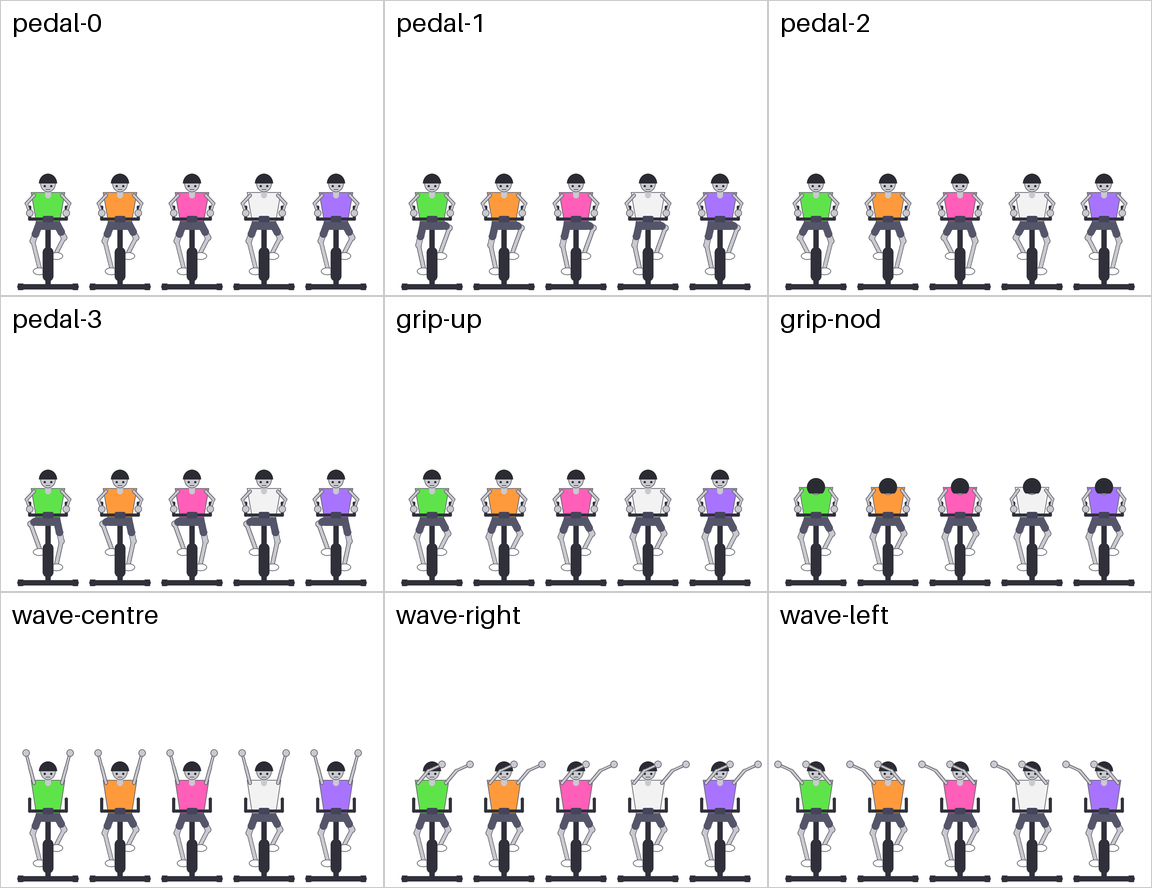
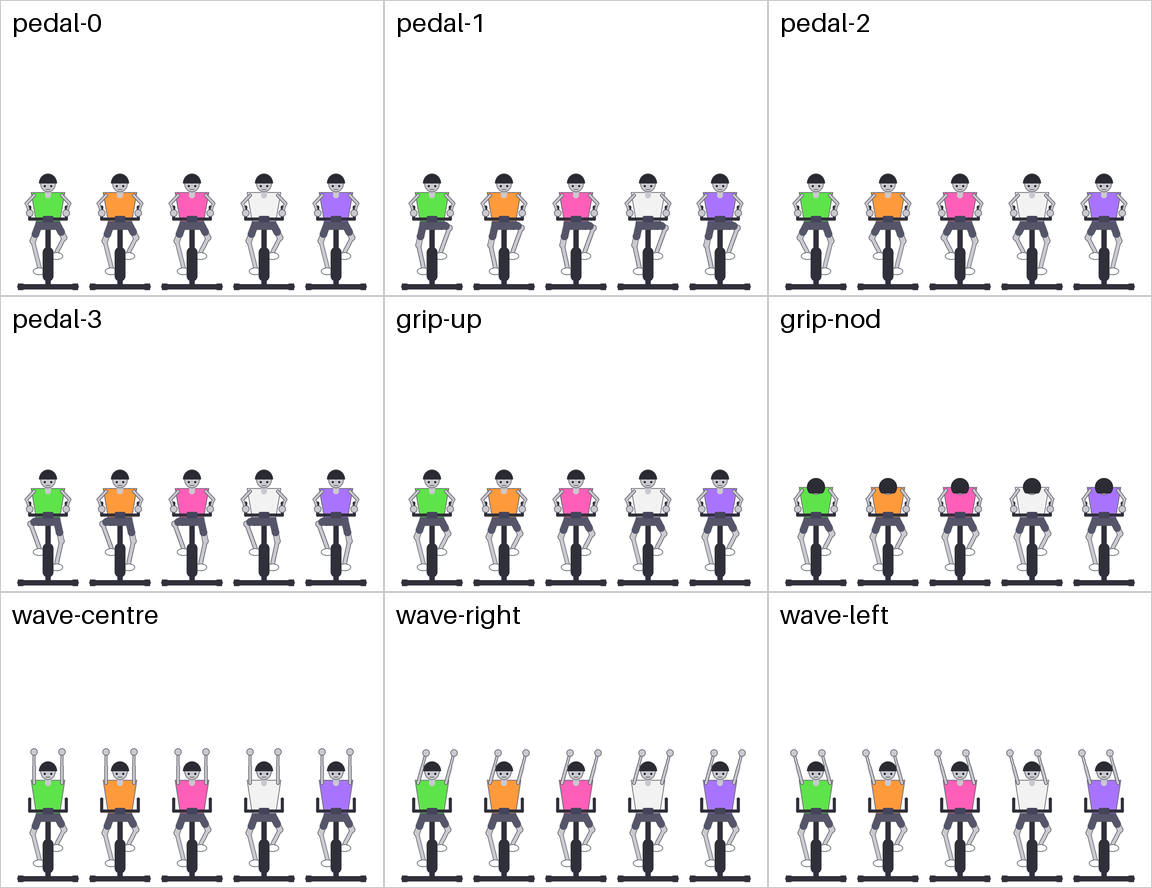
fix: wave

Changed region(s): [[0.3438, 0.8514, 0.9688, 0.8818], [0.0, 0.8209, 0.3125, 0.8818]]

diff --git a/tests/spinBikes.test.js b/tests/spinBikes.test.js
@@ -2,7 +2,7 @@ import { test } from 'node:test';
 import assert from 'node:assert/strict';
 import { crankAngle, legIK, frontLeg, armPose, armLean, gripDip, headNod, gripArm, laggedBeat, shade, bikeRowStartX } from '../src/spinBikes.js';
 import {
-  GAME_WIDTH, ENEMY_CRUISE_SPEED, SCENERY_PARALLAX, BIKE_ARM_HIT_MS, BIKE_ARM_RELAX, BIKE_DIP_HIT_MS, BIKE_GRIP_HUNCH_PX,
+  GAME_WIDTH, ENEMY_CRUISE_SPEED, SCENERY_PARALLAX, BIKE_ARM_HIT_FRAC, BIKE_ARM_HOLD_FRAC, BIKE_WAVE_HITS_PER_BEAT, BIKE_HAIR_LAG_MS, BIKE_ARM_RELAX, BIKE_DIP_HIT_MS, BIKE_GRIP_HUNCH_PX,
   BIKE_NOD_DROP_PX, BIKE_NOD_HAIR_REST, BIKE_NOD_HAIR_FULL, BIKE_NOD_SQUASH,
   BIKE_FLOOR_Y, BIKE_SHOULDER_RISE, BIKE_SHOULDER_HALF, BIKE_HIP_HALF, BIKE_HIP_RISE, BIKE_SPLAY,
   BIKE_THIGH_LEN, BIKE_SHIN_LEN, BIKE_UPPER_ARM_LEN, BIKE_FOREARM_LEN, BIKE_PEDAL_RADIUS, BIKE_BAR_RISE, BIKE_BAR_HALF, BIKE_GRIP_LEN, BIKE_GRIP_FORESHORTEN,
@@ -59,6 +59,7 @@ test('bikeRowStartX is GAME_WIDTH at the section start and decreases with time',
 });
 
 const BEAT = 398;
+const BIKE_ARM_HIT_MS = BIKE_ARM_HIT_FRAC * BEAT; // hit timing at one hit per beat
 const sh = { x: 100, y: 100 };
 
 test('arms reach the hit pose by BIKE_ARM_HIT_MS and hold it', () => {
@@ -71,7 +72,37 @@ test('arms reach the hit pose by BIKE_ARM_HIT_MS and hold it', () => {
   const a = armPose(sh, 0, BIKE_ARM_HIT_MS, BEAT, 1, BIKE_UPPER_ARM_LEN, BIKE_FOREARM_LEN);
   const b = armPose(sh, 0, BIKE_ARM_HIT_MS + 80, BEAT, 1, BIKE_UPPER_ARM_LEN, BIKE_FOREARM_LEN);
   near(a.hand.x, b.hand.x);
-  assert.ok(a.hand.x > sh.x + 15);
+  assert.ok(a.hand.x > sh.x + 5);
+});
+
+test('arm timings scale with the wave period and match the old 100/120 ms at one hit per beat', () => {
+  const TRACK_BEAT_MS = 60000 / 150.55;
+  assert.ok(Math.abs(BIKE_ARM_HIT_FRAC * TRACK_BEAT_MS - 100) < 1);
+  assert.ok(Math.abs(BIKE_ARM_HOLD_FRAC * TRACK_BEAT_MS - 120) < 1);
+  for (const P of [TRACK_BEAT_MS, TRACK_BEAT_MS / BIKE_WAVE_HITS_PER_BEAT]) {
+    near(armLean(0, BIKE_ARM_HIT_FRAC * P, P), 1);
+    assert.ok(armLean(0, BIKE_ARM_HIT_FRAC * P * 0.9, P) < 1);
+    near(armLean(0, (BIKE_ARM_HIT_FRAC + BIKE_ARM_HOLD_FRAC) * P - 1, P), 1); // still held
+    assert.ok(armLean(0, (BIKE_ARM_HIT_FRAC + BIKE_ARM_HOLD_FRAC) * P + 0.1 * P, P) < 1); // relaxing
+  }
+});
+
+test('half-beat wave period: relax phase exists and the lean is continuous across hits, alternating sides', () => {
+  const P = 60000 / 150.55 / 2;
+  assert.ok(BIKE_ARM_HIT_FRAC + BIKE_ARM_HOLD_FRAC < 1);
+  assert.ok(BIKE_HAIR_LAG_MS < P);
+  for (let i = -2; i < 4; i++) {
+    near(armLean(i, P, P), BIKE_ARM_RELAX * Math.sign(armLean(i, P / 2, P)));
+    near(armLean(i, P - 1e-6, P), armLean(i + 1, 0, P), 1e-6); // end of this hit == start of next (which then snaps the other way)
+    assert.equal(Math.sign(armLean(i, P / 2, P)), -Math.sign(armLean(i + 1, P / 2, P)));
+    let prev = armLean(i, 0, P);
+    for (let t = 1; t <= P; t++) {
+      const lean = armLean(i, t, P);
+      assert.ok(Math.abs(lean) <= 1 + 1e-9);
+      if (t > BIKE_ARM_HIT_FRAC * P) assert.ok(Math.abs(lean - prev) < 0.15, `${i}@${t}`);
+      prev = lean;
+    }
+  }
 });
 
 test('odd beats mirror even beats', () => {
@@ -184,6 +215,43 @@ test('raised hands stay clear of the HUD strip (y >= 50) at every point of the b
     }
   }
   assert.ok(top >= 50, `highest hand at y=${top}`);
+});
+
+test('both arms always have the same angle (parallel)', () => {
+  const angle = (p) => Math.atan2(p.hand.x - sh.x, sh.y - p.hand.y);
+  for (const beat of [0, 1]) {
+    for (let t = 0; t <= 2 * BEAT; t += 7) {
+      const l = armPose(sh, beat, t, BEAT, -1, BIKE_UPPER_ARM_LEN, BIKE_FOREARM_LEN);
+      const r = armPose(sh, beat, t, BEAT, 1, BIKE_UPPER_ARM_LEN, BIKE_FOREARM_LEN);
+      near(angle(l), angle(r), 1e-9);
+    }
+  }
+});
+
+test('wave-mode arms are straight and the far arm clears the head at full lean', () => {
+  const shY = BIKE_FLOOR_Y - BIKE_SHOULDER_RISE;
+  for (const beat of [0, 1]) {
+    for (const t of [0, 30, BIKE_ARM_HIT_MS, 200, 300, BEAT]) {
+      for (const side of [-1, 1]) {
+        const x = side * BIKE_SHOULDER_HALF;
+        const p = armPose({ x, y: shY }, beat, t, BEAT, side, BIKE_UPPER_ARM_LEN, BIKE_FOREARM_LEN);
+        // elbow on the shoulder -> hand line: cross product ~ 0
+        const cross = (p.elbow.x - x) * (p.hand.y - shY) - (p.elbow.y - shY) * (p.hand.x - x);
+        near(cross, 0, 1e-6);
+      }
+    }
+  }
+  // head ellipse as drawn in SpinBikes.js (HEAD_RX/RY/RISE duplicated here), grown by a 2 px margin for the arm's thickness
+  const rx = 7.2 + 2, ry = 8 + 2, cy = BIKE_FLOOR_Y - 103;
+  for (const beat of [0, 1]) {
+    const far = beat % 2 === 0 ? -1 : 1; // leaning toward screen-right: the left arm is the far one
+    const x0 = far * BIKE_SHOULDER_HALF;
+    const p = armPose({ x: x0, y: shY }, beat, BIKE_ARM_HIT_MS, BEAT, far, BIKE_UPPER_ARM_LEN, BIKE_FOREARM_LEN);
+    for (let s = 0; s <= 1; s += 0.01) {
+      const x = x0 + (p.hand.x - x0) * s, y = shY + (p.hand.y - shY) * s;
+      assert.ok((x / rx) ** 2 + ((y - cy) / ry) ** 2 > 1, `beat ${beat} s=${s}`);
+    }
+  }
 });
 
 test('the rider row spans roughly 600-700 px', () => {

diff --git a/src/spinBikes.js b/src/spinBikes.js
@@ -1,8 +1,8 @@
 import {
   GAME_WIDTH, ENEMY_CRUISE_SPEED, SCENERY_PARALLAX,
   BIKE_COUNT, BIKE_SPACING, BIKE_WIDTH,
-  BIKE_ARM_SPREAD_DEG, BIKE_ARM_HIT_UPPER_DEG, BIKE_ARM_HIT_FORE_DEG,
-  BIKE_ARM_HIT_MS, BIKE_ARM_HOLD_MS, BIKE_ARM_RELAX, BIKE_DIP_HIT_MS,
+  BIKE_ARM_HIT_UPPER_DEG,
+  BIKE_ARM_HIT_FRAC, BIKE_ARM_HOLD_FRAC, BIKE_ARM_RELAX, BIKE_DIP_HIT_MS,
   BIKE_NOD_DROP_PX, BIKE_NOD_HAIR_REST, BIKE_NOD_HAIR_FULL, BIKE_NOD_EYES_HIDE, BIKE_NOD_SQUASH,
 } from './config/gameConfig.js';
 
@@ -46,30 +46,32 @@ export function frontLeg(hip, crank, radius, angle, side, thigh, shin, splay) {
   };
 }
 
-// Lean of the arm "hit" at msSinceBeat into beat `beatIndex`, in -1..1 (+1 = fully toward screen-right).
-// Even beats hit toward screen-right, odd toward screen-left. The lean snaps from where the previous beat ended
-// (-BIKE_ARM_RELAX of this side) to the full hit within BIKE_ARM_HIT_MS (ease-out), holds for
-// BIKE_ARM_HOLD_MS, then relaxes to BIKE_ARM_RELAX of the hit by the next beat, so it is continuous
-// across beats except for the intended snap.
-export function armLean(beatIndex, msSinceBeat, beatMs) {
-  const dir = Math.abs(beatIndex % 2) === 0 ? 1 : -1;
-  const t = Math.min(Math.max(msSinceBeat, 0), beatMs);
-  const hit = 1 - Math.pow(1 - Math.min(t / BIKE_ARM_HIT_MS, 1), 3);
-  if (t < BIKE_ARM_HIT_MS) return dir * (-BIKE_ARM_RELAX + (1 + BIKE_ARM_RELAX) * hit);
-  const relaxMs = Math.max(beatMs - BIKE_ARM_HIT_MS - BIKE_ARM_HOLD_MS, 1);
-  const u = Math.min(Math.max((t - BIKE_ARM_HIT_MS - BIKE_ARM_HOLD_MS) / relaxMs, 0), 1);
+// Lean of the arm "hit" at msSinceHit into hit `hitIndex` (a hit lasts periodMs: a beat or a fraction of one,
+// see BIKE_WAVE_HITS_PER_BEAT), in -1..1 (+1 = fully toward screen-right). Even hits go toward screen-right,
+// odd toward screen-left. The lean snaps from where the previous hit ended (-BIKE_ARM_RELAX of this side) to
+// the full hit within BIKE_ARM_HIT_FRAC of the period (ease-out), holds for BIKE_ARM_HOLD_FRAC, then relaxes
+// to BIKE_ARM_RELAX of the hit by the next hit, so it is continuous across hits except for the intended snap.
+export function armLean(hitIndex, msSinceHit, periodMs) {
+  const dir = Math.abs(hitIndex % 2) === 0 ? 1 : -1;
+  const t = Math.min(Math.max(msSinceHit, 0), periodMs);
+  const hitMs = BIKE_ARM_HIT_FRAC * periodMs;
+  const holdMs = BIKE_ARM_HOLD_FRAC * periodMs;
+  const hit = 1 - Math.pow(1 - Math.min(t / hitMs, 1), 3);
+  if (t < hitMs) return dir * (-BIKE_ARM_RELAX + (1 + BIKE_ARM_RELAX) * hit);
+  const relaxMs = Math.max(periodMs - hitMs - holdMs, 1);
+  const u = Math.min(Math.max((t - hitMs - holdMs) / relaxMs, 0), 1);
   return dir * (1 - (1 - BIKE_ARM_RELAX) * u * u * (3 - 2 * u));
 }
 
-// One raised arm from the shoulder at the beat-hit pose. `side` is -1 (screen-left arm) or 1 (screen-right arm);
-// every rider uses the same beat so the row hits in unison. Angles are from straight up, positive
-// toward +x; the forearm whips further than the upper arm along the lean.
-export function armPose(shoulder, beatIndex, msSinceBeat, beatMs, side, upperLen, foreLen) {
-  const lean = armLean(beatIndex, msSinceBeat, beatMs);
-  const upper = side * rad(BIKE_ARM_SPREAD_DEG) * (1 - Math.abs(lean)) * 0.5 + lean * rad(BIKE_ARM_HIT_UPPER_DEG);
-  const fore = upper + lean * rad(BIKE_ARM_HIT_FORE_DEG);
+// One raised arm from the shoulder at the hit pose. `side` is -1 (screen-left arm) or 1 (screen-right arm);
+// every rider uses the same hit so the row waves in unison. Angles are from straight up, positive
+// toward +x. The arm is always straight (forearm = upper arm angle) and both arms share one angle (the lean),
+// so they stay parallel: straight up between hits, swinging together toward the hit's side.
+export function armPose(shoulder, hitIndex, msSinceHit, periodMs, side, upperLen, foreLen) {
+  const lean = armLean(hitIndex, msSinceHit, periodMs);
+  const upper = lean * rad(BIKE_ARM_HIT_UPPER_DEG);
   const elbow = { x: shoulder.x + Math.sin(upper) * upperLen, y: shoulder.y - Math.cos(upper) * upperLen };
-  return { elbow, hand: { x: elbow.x + Math.sin(fore) * foreLen, y: elbow.y - Math.cos(fore) * foreLen } };
+  return { elbow, hand: { x: elbow.x + Math.sin(upper) * foreLen, y: elbow.y - Math.cos(upper) * foreLen } };
 }
 
 // Head-bang dip in 0..1 (1 = fully down) at msSinceBeat into a beat: fully down on the beat and for

diff --git a/src/objects/SpinBikes.js b/src/objects/SpinBikes.js
@@ -5,7 +5,7 @@ import {
   GAME_WIDTH, SCENERY_PARALLAX, BIKE_COUNT, BIKE_SPACING, BIKE_WIDTH, BIKE_FLOOR_Y, BIKE_DEPTH, BIKE_PEDAL_BEATS,
   BIKE_HIP_HALF, BIKE_SHOULDER_HALF, BIKE_PEDAL_RADIUS, BIKE_BAR_RISE, BIKE_BAR_HALF, BIKE_GRIP_LEN, BIKE_GRIP_FORESHORTEN, BIKE_HIP_RISE, BIKE_SHOULDER_RISE, BIKE_SPLAY,
   BIKE_THIGH_LEN, BIKE_SHIN_LEN, BIKE_UPPER_ARM_LEN, BIKE_FOREARM_LEN,
-  BIKE_GRIP_HUNCH_PX, BIKE_NOD_HAIR_REST, BIKE_NOD_HAIR_FULL, BIKE_SHOULDER_BOB_PX, BIKE_HAIR_LAG_MS, BIKE_HAIR_SWING_PX,
+  BIKE_GRIP_HUNCH_PX, BIKE_NOD_HAIR_REST, BIKE_NOD_HAIR_FULL, BIKE_SHOULDER_BOB_PX, BIKE_HAIR_LAG_MS, BIKE_HAIR_SWING_PX, BIKE_WAVE_HITS_PER_BEAT,
   BIKE_FRAME_WIDTH, BIKE_RIM_ALPHA, BIKE_FRAME_COLOR, BIKE_SHOE_COLOR, BIKE_OUTLINE_COLOR, BIKE_RENDER_SCALE,
   BIKE_COLORS, BIKE_SKINS, BIKE_TOPS, BIKE_SHORTS, BIKE_HAIR,
 } from '../config/gameConfig.js';
@@ -156,18 +156,25 @@ export class SpinBikes {
     const beatIndex = conductor.gridIndex(1);
     const sinceBeat = conductor.phaseMs(1);
     this.grip = section.bikes === 'grip';
+    // wave mode hits BIKE_WAVE_HITS_PER_BEAT times a beat; grip mode (nod) stays per beat
+    const waveIndex = conductor.gridIndex(BIKE_WAVE_HITS_PER_BEAT);
+    const sinceHit = conductor.phaseMs(1 / BIKE_WAVE_HITS_PER_BEAT);
+    const waveMs = beatMs / BIKE_WAVE_HITS_PER_BEAT;
     this.dip = this.grip ? gripDip(sinceBeat, beatMs) : 0;
     // hair replays the head / arm motion late: relative to the head it trails the nod, and swings with the lagged lean
-    const lag = laggedBeat(beatIndex, sinceBeat, beatMs, BIKE_HAIR_LAG_MS);
-    this.hair = this.grip
-      ? pt(0, (gripDip(lag.msSinceBeat, beatMs) - this.dip) * BIKE_HAIR_SWING_PX)
-      : pt(armLean(lag.beatIndex, lag.msSinceBeat, beatMs) * BIKE_HAIR_SWING_PX, 0);
+    if (this.grip) {
+      const lag = laggedBeat(beatIndex, sinceBeat, beatMs, BIKE_HAIR_LAG_MS);
+      this.hair = pt(0, (gripDip(lag.msSinceBeat, beatMs) - this.dip) * BIKE_HAIR_SWING_PX);
+    } else {
+      const lag = laggedBeat(waveIndex, sinceHit, waveMs, BIKE_HAIR_LAG_MS); // clamps if the lag exceeds the period
+      this.hair = pt(armLean(lag.beatIndex, lag.msSinceBeat, waveMs) * BIKE_HAIR_SWING_PX, 0);
+    }
 
     const g = this.gfx.clear();
     for (let i = 0; i < BIKE_COUNT; i++) {
       const cx = this.left + BIKE_WIDTH / 2 + i * BIKE_SPACING;
       if (cx + BIKE_WIDTH < 0 || cx - BIKE_WIDTH > GAME_WIDTH) continue;
-      this.drawRider(g, this.riders[i], cx, crank, beatIndex, sinceBeat, beatMs);
+      this.drawRider(g, this.riders[i], cx, crank, beatIndex, sinceBeat, beatMs, waveIndex, sinceHit, waveMs);
     }
     this.rt.clear().draw(g).setVisible(true);
   }
@@ -279,7 +286,7 @@ export class SpinBikes {
     g.lineStyle(1, BIKE_OUTLINE_COLOR, 0.8).beginPath().moveTo(cx, hipY + 3).lineTo(cx, hipY + 9).strokePath();
   }
 
-  drawRider(g, r, cx, crankBase, beatIndex, sinceBeat, beatMs) {
+  drawRider(g, r, cx, crankBase, beatIndex, sinceBeat, beatMs, waveIndex, sinceHit, waveMs) {
     const hipY = BIKE_FLOOR_Y - BIKE_HIP_RISE;
     const grip = this.grip;
     const shoulderY = BIKE_FLOOR_Y - BIKE_SHOULDER_RISE + (grip ? BIKE_GRIP_HUNCH_PX - BIKE_SHOULDER_BOB_PX * this.dip : 0);
@@ -303,9 +310,9 @@ export class SpinBikes {
 
     const barY = BIKE_FLOOR_Y - BIKE_BAR_RISE - BIKE_GRIP_LEN / 2; // grip: middle of the upturned bar end
     const armL = grip ? gripArm(shL, { x: cx - BIKE_BAR_HALF, y: barY }, -1, BIKE_UPPER_ARM_LEN * BIKE_GRIP_FORESHORTEN, BIKE_FOREARM_LEN * BIKE_GRIP_FORESHORTEN)
-      : armPose(shL, beatIndex, sinceBeat, beatMs, -1, BIKE_UPPER_ARM_LEN, BIKE_FOREARM_LEN);
+      : armPose(shL, waveIndex, sinceHit, waveMs, -1, BIKE_UPPER_ARM_LEN, BIKE_FOREARM_LEN);
     const armR = grip ? gripArm(shR, { x: cx + BIKE_BAR_HALF, y: barY }, 1, BIKE_UPPER_ARM_LEN * BIKE_GRIP_FORESHORTEN, BIKE_FOREARM_LEN * BIKE_GRIP_FORESHORTEN)
-      : armPose(shR, beatIndex, sinceBeat, beatMs, 1, BIKE_UPPER_ARM_LEN, BIKE_FOREARM_LEN);
+      : armPose(shR, waveIndex, sinceHit, waveMs, 1, BIKE_UPPER_ARM_LEN, BIKE_FOREARM_LEN);
     this.arm(g, shL, armL, { ...r, band: false }, grip);
     this.arm(g, shR, armR, r, grip);
   }

diff --git a/src/config/gameConfig.js b/src/config/gameConfig.js
@@ -274,12 +274,11 @@ export const BIKE_GRIP_FORESHORTEN = 0.68;   // 'grip' mode: arms reach toward t
 export const BIKE_GRIP_LEN = 11;             // px, how far each grip end stands up from the bar (the fist wraps its middle)
 export const BIKE_UPPER_ARM_LEN = 15;        // px
 export const BIKE_FOREARM_LEN = 14;          // px (raised hands stay >= 50 px from the top: tests/spinBikes.test.js)
-export const BIKE_ARM_SPREAD_DEG = 30;       // relaxed pose: arms raised in a V, each this far outward from vertical
-export const BIKE_ARM_HIT_UPPER_DEG = 40;    // on each beat both upper arms snap this far toward the beat's side (even beats screen-right, odd screen-left)
-export const BIKE_ARM_HIT_FORE_DEG = 25;     // forearms whip this much further than the upper arm
-export const BIKE_ARM_HIT_MS = 100;          // ms after the beat to reach the hit pose (ease-out)
-export const BIKE_ARM_HOLD_MS = 120;         // ms the hit pose is held before relaxing
-export const BIKE_ARM_RELAX = 0.3;           // fraction of the hit lean still left at the end of the beat (the next hit starts from the opposite of it)
+export const BIKE_ARM_HIT_UPPER_DEG = 30;    // on each beat both parallel arms swing this many deg toward the beat's side (even beats screen-right, odd screen-left), straight up at rest; the far arm clears the head up to 16 deg (tests/spinBikes.test.js), 15 leaves margin
+export const BIKE_WAVE_HITS_PER_BEAT = 1;    // arm-wave hits per beat in the non-grip 'bikes' mode (1 = on every beat); the lean alternates side on every hit
+export const BIKE_ARM_HIT_FRAC = 0.25;       // fraction of the wave period (1 / BIKE_WAVE_HITS_PER_BEAT beat) after a hit to reach the hit pose (ease-out); 100 ms at 1 hit per beat, 150.55 BPM
+export const BIKE_ARM_HOLD_FRAC = 0.3;       // fraction of the wave period the hit pose is held before relaxing (~120 ms at 1 hit per beat)
+export const BIKE_ARM_RELAX = 0.3;           // fraction of the hit lean still left at the end of the wave period (the next hit starts from the opposite of it)
 export const BIKE_DIP_HIT_MS = 70;           // ms the nod stays fully down after the beat, then it eases back up by mid-beat
 export const BIKE_NOD_DROP_PX = 7;           // 'grip' mode: head sinks this far at a full nod (about its radius)
 export const BIKE_NOD_HAIR_REST = 0.5;       // fraction of the head's height covered by hair/cap from the top when upright

diff --git a/CLAUDE.md b/CLAUDE.md
@@ -31,7 +31,7 @@ Tests use `node --test` and live in `tests/`, so anything under test must stay i
 - `Player` — `new Player(scene, x, { autoRun })`: `autoRun` pins speed at `ENEMY_CRUISE_SPEED`, ignores taps/deceleration and keeps the beat-locked run cycle (`tapIdleMs: 0`); `GameScene` sets it for `?debug` or Easy difficulty. Alternating left/right key taps accelerate the player; up/down arrows snap between 3 rows. WASD aliases the arrows everywhere (gameplay and menu) via `addDirectionKeys`/`anyJustDown`/`onDirectionKey` in `src/input.js`. Input is split into shared methods — `tap(side)` (alternating accel) and `moveRow(dir)` (clamped row snap) — so keyboard (`update()`) and touch share one code path. Touch controls (`Player.attachTouch(scene)`, called by `GameScene`): tapping the left/right half of the screen calls `tap()` on `pointerdown`; a vertical swipe past `SWIPE_THRESHOLD` (`gameConfig.js`) calls `moveRow()` mid-gesture, one row change per pointer until release — tracked per-pointer so two-thumb tapping and a swipe don't interfere. When `PLAYER_FRAME_COUNT` (`gameConfig.js`) is non-zero, the green rectangle is replaced with run-cycle frames via the shared `RunCycle` helper (`src/objects/RunCycle.js`, frames from `src/config/runFrames.js`, prepped by `tools/prep-run-frames.py`, `--dummy` generates placeholder frames before real art exists); each frame once the beat clock runs `GameScene` calls `syncFrame(conductor.gridIndex(PLAYER_RUN_STEPS_PER_BEAT × section.speedMult))` (6 steps per game beat, so the 3-frame cycle lands a foot contact every half game beat; the enemy has its own `ENEMY_RUN_STEPS_PER_BEAT`, 8th notes), which shows frame `walkIndex % frameCount` (never double-steps; the beat grid fixes the phase, so `?t=` seeks land on the right phase) — while a free-running timer in `RunCycle.update()` at the same per-character rate (`BEAT_MS / stepsPerBeat`) only animates the walk before the first sync, so the player walks from the first frame even before the first downbeat / audio start, and is silenced once beat-locked — while the `pulse()` beat squash still waits for `BEAT_SYNC_START_MS`; falls back to the plain rectangle when the count is 0. **That beat-locked cycle is the player's idle fallback**: with `PLAYER_TAP_RUN_IDLE_MS` non-zero (the default) the player's run is tap-driven while the user taps — each accelerating tap in `tap()` calls `runCycle.step()`, advancing exactly one frame and holding it (`syncFrame()` and the timer are ignored) so feet follow the fingers; once that long passes without a tap, and before the first tap, the beat-locked cycle runs again so the character never freezes. `?debug` (taps ignored) and a value of 0 keep the beat-locked cycle only
 - `ObstacleSpawner` — spawns the authored waves (`new ObstacleSpawner(scene, waves = WAVES)`; `GameScene` passes `WAVES_HARD` on Hard) from `src/config/waves.js`, timed off song time (passed in from the Conductor) so obstacles arrive at the player on the beat; scroll speed is the player's actual speed, while spawn timing uses a separate `timingSpeed`. The authored waves are flattened once in the constructor into an arrival-sorted `pending` list with a spawn cursor (`next`), so the per-frame scan only covers the lookahead window. Each obstacle gets a deterministic character sprite from `src/config/obstacleSprites.js` (`spriteFor`, avoiding a same-wave repeat), rendered origin `(0,1)` so its left edge and feet line match the sprite's `hw` and shadow (`docs/image-assets.md` "Obstacle character sprites"); the collision box is narrower than the art — `hw × OBSTACLE_HITBOX_SCALE` (`gameConfig.js`), shrunk around the same centre, collision only (art, shadow and spawn timing keep the full `hw`); falls back to the old placeholder rectangle if no sprites are configured
 - `Enemy` — chases from the left; its speed ramps from `ENEMY_SPEED` to `ENEMY_CRUISE_SPEED` anchored to song time, pinning the player into a narrow speed band near max. Tracks the player's row instantly during the intro; once beat sync is on it steps onto the row only on beat crossings, so row-dodging buys up to one beat of separation. Uses the same `RunCycle` helper as `Player` for its visual, with its own `ENEMY_FRAME_COUNT`/`ENEMY_SPRITE_HH` frame set; `GameScene` calls `syncFrame()`/`pulse()` on both the player and the enemy together — each walks at its own `*_RUN_STEPS_PER_BEAT` rate off the same beat grid, and they bounce in lockstep
-- `SpinBikes` — `new SpinBikes(scene, conductor)`: a row of `BIKE_COUNT` front-facing (toward the camera, symmetric) cel-shaded riders (tapered outlined limbs with round joints, oval head with ears, tank/shorts/sneakers/hair per rider from the `BIKE_SKINS`/`BIKE_TOPS`/`BIKE_SHORTS`/`BIKE_HAIR` palettes) on dark stationary spin bikes (floor stabiliser, edge-on flywheel, post, handlebar) with an accent rim light (`BIKE_COLORS`, `BIKE_RIM_ALPHA`), drawn each frame with an invisible Phaser Graphics at `BIKE_RENDER_SCALE`× into a RenderTexture (strip of the scenery height, `STRIP_MARGIN` px past each screen edge) shown scaled back down for smooth edges (no image assets; every part is an outline underlay in `BIKE_OUTLINE_COLOR` then fills with a `shade()` shadow side, light from the upper left), at depth `BIKE_DEPTH` (−9.5, between the scenery strip and the dim overlay). `GameScene` calls `update(section, songMs, worldDx)` right after `scenery.scroll`: the row enters at the right edge on a `bikes` section's first frame (`bikeRowStartX` estimates the x for `?t=` seeks), then accumulates `worldDx × SCENERY_PARALLAX` so it drifts with the backdrop, and keeps drifting after the section ends until its right edge is off-screen left, then hides (`finished` blocks re-entry until a non-bikes frame). Pose is stateless from the beat grid (`conductor.phaseMs`): crank turns once per `BIKE_PEDAL_BEATS`, each leg a 2-bone IK (`legIK`) solved in the sagittal plane from hip to pedal and projected to the screen by `frontLeg` (y kept, knee splayed outward by `BIKE_SPLAY` × forward depth; legs half a turn apart), arms raised and hitting the beat (`armLean`/`armPose`): every rider in unison snaps within `BIKE_ARM_HIT_MS` of each beat to a lean toward screen-right on even beats / screen-left on odd (both arms tilt the same way) (`conductor.gridIndex(1)` parity), holds `BIKE_ARM_HOLD_MS`, then relaxes to `BIKE_ARM_RELAX` of the lean by the next beat; pedalling is in unison too. Mode `'grip'` instead keeps both hands on the bar ends (`gripArm`: `legIK` elbow flared outward) while shoulders sit `BIKE_GRIP_HUNCH_PX` low (rising `BIKE_SHOULDER_BOB_PX` at a full nod) and the head nods (`headNod(gripDip)`: sinks `BIKE_NOD_DROP_PX`, the hair/cap edge slides down the head so the crown shows and the eyes hide, `BIKE_NOD_*`) — fully down for `BIKE_DIP_HIT_MS` on each beat, back up by mid-beat. Ponytail/bun swing (`BIKE_HAIR_SWING_PX`) replays the nod / arm lean `BIKE_HAIR_LAG_MS` late (`laggedBeat`). Pure maths in `src/spinBikes.js`
+- `SpinBikes` — `new SpinBikes(scene, conductor)`: a row of `BIKE_COUNT` front-facing (toward the camera, symmetric) cel-shaded riders (tapered outlined limbs with round joints, oval head with ears, tank/shorts/sneakers/hair per rider from the `BIKE_SKINS`/`BIKE_TOPS`/`BIKE_SHORTS`/`BIKE_HAIR` palettes) on dark stationary spin bikes (floor stabiliser, edge-on flywheel, post, handlebar) with an accent rim light (`BIKE_COLORS`, `BIKE_RIM_ALPHA`), drawn each frame with an invisible Phaser Graphics at `BIKE_RENDER_SCALE`× into a RenderTexture (strip of the scenery height, `STRIP_MARGIN` px past each screen edge) shown scaled back down for smooth edges (no image assets; every part is an outline underlay in `BIKE_OUTLINE_COLOR` then fills with a `shade()` shadow side, light from the upper left), at depth `BIKE_DEPTH` (−9.5, between the scenery strip and the dim overlay). `GameScene` calls `update(section, songMs, worldDx)` right after `scenery.scroll`: the row enters at the right edge on a `bikes` section's first frame (`bikeRowStartX` estimates the x for `?t=` seeks), then accumulates `worldDx × SCENERY_PARALLAX` so it drifts with the backdrop, and keeps drifting after the section ends until its right edge is off-screen left, then hides (`finished` blocks re-entry until a non-bikes frame). Pose is stateless from the beat grid (`conductor.phaseMs`): crank turns once per `BIKE_PEDAL_BEATS`, each leg a 2-bone IK (`legIK`) solved in the sagittal plane from hip to pedal and projected to the screen by `frontLeg` (y kept, knee splayed outward by `BIKE_SPLAY` × forward depth; legs half a turn apart), arms raised and waving on the beat grid (`armLean`/`armPose`): every rider in unison snaps within `BIKE_ARM_HIT_FRAC` of the wave period (1/`BIKE_WAVE_HITS_PER_BEAT` beat; 2 = every half beat) after each hit to a lean toward screen-right on even hits / screen-left on odd (both straight arms stay parallel, pointing straight up between hits, and swing together) (`conductor.gridIndex(BIKE_WAVE_HITS_PER_BEAT)` parity), holds `BIKE_ARM_HOLD_FRAC` of the period, then relaxes to `BIKE_ARM_RELAX` of the lean by the next hit; pedalling is in unison too. Mode `'grip'` instead keeps both hands on the bar ends (`gripArm`: `legIK` elbow flared outward) while shoulders sit `BIKE_GRIP_HUNCH_PX` low (rising `BIKE_SHOULDER_BOB_PX` at a full nod) and the head nods (`headNod(gripDip)`: sinks `BIKE_NOD_DROP_PX`, the hair/cap edge slides down the head so the crown shows and the eyes hide, `BIKE_NOD_*`) — fully down for `BIKE_DIP_HIT_MS` on each beat, back up by mid-beat. Ponytail/bun swing (`BIKE_HAIR_SWING_PX`) replays the nod / arm lean `BIKE_HAIR_LAG_MS` late (`laggedBeat`). Pure maths in `src/spinBikes.js`
 - `Scenery` — the road + background scenery strip, a themed pair keyed by `SCENERY_THEME` (`gameConfig.js`) against the `SCENERY_THEMES` table it exports; `BootScene` preloads the active theme's two images from that same table. Both layers are `tileSprite`s (`setTileScale(0.5, 0.5)` since the art is authored at 2× logical size) oversized in x to cover the circle the `rotate` section's zoomed-out, spinning camera sweeps, with flat-colour sky/ground rectangles filling in beyond that; `scroll(dxWorldPx)` advances the road's `tilePositionX` and the scenery's at `SCENERY_PARALLAX` (`gameConfig.js`, 0.2) of that, so the backdrop drifts slower than the road and reads as further away (0 = static). It also owns the dim-section row divider lines: dashed lane-line `tileSprite`s (one generated dash+gap texture, scrolled with the road in `scroll()`) at `rowBoundaryYs()` (`src/rowLayout.js`) drawn above the disco dim (depth −5.5) because the road art's own lane lines sit under it; `GameScene` drives them with `setRowLines(dimFade, color, shown)` so they fade with the dim, take the fixed `DISCO_ROW_LINE_COLOR` under `lights` (a pastel outside `DISCO_COLORS`, so they never blend into a beam or the beat flash; white `DIM_ROW_LINE_COLOR` otherwise) and, under `lights` only, blink with a hard cut on the beat grid (steady in other dimmed sections such as `lightsOut`, where the lights-out overlay hides them while dark) — shown for `DIM_ROW_LINE_BLINK_BEATS` beats, then hidden for the same (`conductor.gridIndex`; `DIM_ROW_LINE_*` in `gameConfig.js`)
 
 **Fake-3D depth** (`src/rowLayout.js`): shared `rowLayout(row)` → `{y, scale, depth}` — the only

diff --git a/docs/spin-bike-sprite-prompt.md b/docs/spin-bike-sprite-prompt.md
@@ -113,20 +113,23 @@ mostly hidden. Hands stay on the handlebars, shoulders stay where they are.
 ```
 
 ```
-Image 7 (wave-centre): all riders seated, both arms raised straight up overhead
-in a wide V, hands open, heads up, smiling. Hands must stay inside the image
-and must not touch a neighbour's hands.
+Image 7 (wave-centre): all riders seated, both arms raised straight up overhead,
+parallel to each other (shoulder width apart), arms fully STRAIGHT (elbows
+locked, no bend), hands open, heads up, smiling. Hands must stay inside the
+image and must not touch a neighbour's hands.
 ```
 
 ```
-Image 8 (wave-left): same as image 7, but every rider's raised arms lean
-together toward the LEFT side of the image, like a big unison side-to-side wave.
+Image 8 (wave-left): same as image 7, arms still fully straight and still
+parallel to each other, but both arms of every rider swing together toward
+the LEFT side of the image, like a unison side-to-side wave. The arm on the
+right side of the image passes just above the head, never across the face.
 Torsos stay upright. Hands must not touch a neighbour's.
 ```
 
 ```
-Image 9 (wave-right): mirror of image 8: all raised arms lean together toward
-the RIGHT side of the image.
+Image 9 (wave-right): mirror of image 8: both parallel straight arms swing
+toward the RIGHT side of the image.
 ```
 
 Only if the in-game check calls for it (see the plan doc), add one more:

diff --git a/docs/spin-bike-sprites.md b/docs/spin-bike-sprites.md
@@ -40,8 +40,10 @@ Instead each rider is **two stacked images** sharing one registration:
 | **lower** | shorts below the waistband, legs, sneakers, flywheel, post, floor bar | 4 pedal phases |
 | **upper** | torso, head, arms, hands, handlebar + console | 5 poses |
 
-Upper poses: `grip-up`, `grip-nod`, `wave-centre` (arms up in a V),
-`wave-left`, `wave-right` (both arms leaning to screen-left / screen-right).
+Upper poses: `grip-up`, `grip-nod`, `wave-centre` (both straight arms pointing
+straight up, parallel), `wave-left`, `wave-right` (both arms still parallel,
+swinging together toward screen-left / screen-right; the far arm passes just
+above the head). Arms are always straight in the wave, as in the reference.
 Total **9 images**.
 
 Split line: the shorts' waistband, just *below* the handlebar — so the bar,
@@ -80,8 +82,9 @@ Pure functions to add to `src/spinBikes.js` (unit-tested like the rest):
   return looks too jumpy — it would show while `gripDip` is between two
   thresholds, costing one more image.
 - **Wave:** `armLean > +0.5` → `wave-right`, `< −0.5` → `wave-left`, else
-  `wave-centre`. `armLean` already snaps on the beat and relaxes, so the
-  centre frame shows between hits.
+  `wave-centre`. `armLean` already snaps on each hit (every
+  1/`BIKE_WAVE_HITS_PER_BEAT` beat, currently every beat) and relaxes,
+  so the centre frame shows between hits.
 
 ## Style
 
